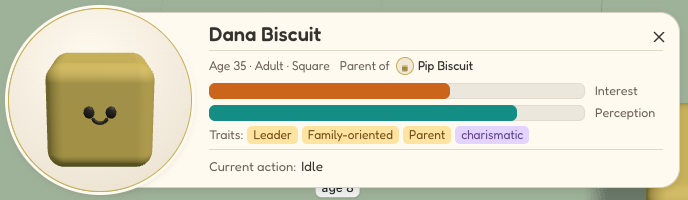
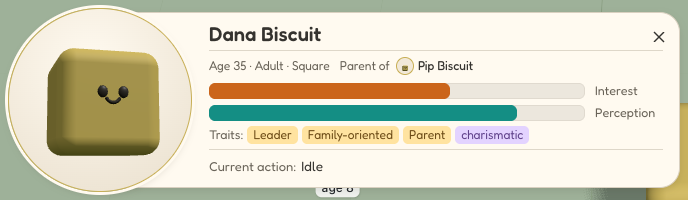
style: angle inspector portraits slightly right and upward

Changed region(s): [[0.061, 0.24, 0.2442, 0.84], [0.5799, 0.33, 0.6105, 0.36]]

diff --git a/web/src/scene/blobPortrait.ts b/web/src/scene/blobPortrait.ts
@@ -7,8 +7,9 @@ import { blobScale } from "./blobSize.ts";
 /** A narrow field of view from further back flattens the blob less than a close lens would. */
 export const PORTRAIT_FOV = 24;
 
-/** The camera sits this far above the blob's middle, looking slightly down on its face. */
-export const PORTRAIT_ELEVATION = MathUtils.degToRad(14);
+/** A slightly low, left-hand viewpoint makes the face look screen-right and upward. */
+export const PORTRAIT_ELEVATION = MathUtils.degToRad(-8);
+export const PORTRAIT_AZIMUTH = MathUtils.degToRad(-14);
 
 // Room left around the biggest blob (an elder), so its shadowless outline never touches the edge.
 const PADDING = 1.14;
@@ -36,22 +37,37 @@ export function portraitFraming(
   const halfDepth = max.z * sz;
 
   const targetY = height * AIM;
-  // The camera looks down, so depth adds to the height it sees, and the nearest part of the blob is
-  // closer to the lens than its middle.
-  const above = Math.max(height - targetY, targetY);
-  const visibleHalfHeight =
-    above * Math.cos(PORTRAIT_ELEVATION) + halfDepth * Math.sin(PORTRAIT_ELEVATION);
+  const sinYaw = Math.sin(PORTRAIT_AZIMUTH);
+  const cosYaw = Math.cos(PORTRAIT_AZIMUTH);
+  const sinPitch = Math.sin(PORTRAIT_ELEVATION);
+  const cosPitch = Math.cos(PORTRAIT_ELEVATION);
   const tan = Math.tan(MathUtils.degToRad(PORTRAIT_FOV / 2));
   const safeAspect = Number.isFinite(aspect) && aspect > 0 ? aspect : 1;
-  const distance =
-    PADDING * Math.max(visibleHalfHeight / tan, halfWidth / (tan * safeAspect)) + halfDepth;
+
+  // Fit each bounding-box corner in camera space. Combining independent worst-case width and
+  // depth would zoom out unnecessarily when the portrait is turned.
+  let distance = 0;
+  for (const x of [-halfWidth, halfWidth]) {
+    for (const y of [-targetY, height - targetY]) {
+      for (const z of [-halfDepth, halfDepth]) {
+        const across = x * cosYaw - z * sinYaw;
+        const depth = x * sinYaw + z * cosYaw;
+        const up = y * cosPitch - depth * sinPitch;
+        const toward = depth * cosPitch + y * sinPitch;
+        distance = Math.max(
+          distance,
+          toward + PADDING * Math.max(Math.abs(up) / tan, Math.abs(across) / (tan * safeAspect)),
+        );
+      }
+    }
+  }
 
   return {
     target: [0, targetY, 0],
     position: [
-      0,
+      distance * cosPitch * Math.sin(PORTRAIT_AZIMUTH),
       targetY + distance * Math.sin(PORTRAIT_ELEVATION),
-      distance * Math.cos(PORTRAIT_ELEVATION),
+      distance * cosPitch * cosYaw,
     ],
   };
 }

diff --git a/web/src/scene/blobPortrait.test.ts b/web/src/scene/blobPortrait.test.ts
@@ -48,18 +48,31 @@ describe("portraitFraming", () => {
 
   test("fills the frame rather than leaving the blob lost in it", () => {
     for (const shape of SHAPES) {
-      const ys = corners(shape, 75).map((c) => project(shape, 1, c).y);
-      assert.ok(Math.max(...ys) - Math.min(...ys) > 1.4, shape);
+      const projected = corners(shape, 75).map((c) => project(shape, 1, c));
+      const xs = projected.map((p) => p.x);
+      const ys = projected.map((p) => p.y);
+      // A turned square can be width-limited rather than height-limited.
+      const width = Math.max(...xs) - Math.min(...xs);
+      const height = Math.max(...ys) - Math.min(...ys);
+      assert.ok(Math.max(width, height) > 1.4 && Math.min(width, height) > 1.1, shape);
     }
   });
 
-  test("looks down on the blob from the front, aimed at its face height", () => {
+  test("shows the face looking subtly right and up, still mostly front-on", () => {
     for (const shape of SHAPES) {
       const { position, target } = portraitFraming(shape, 1);
-      assert.equal(position[0], 0);
+      assert.ok(position[0] < 0, "camera is to the blob's left");
       assert.ok(position[2] > 0, "in front, where the face is");
-      assert.ok(position[1] > target[1], "raised");
+      assert.ok(position[1] < target[1], "camera is slightly below the face");
+      assert.ok(Math.abs(position[0] / position[2]) < 0.3, "gentle horizontal angle");
+      assert.ok(Math.abs((position[1] - target[1]) / position[2]) < 0.2, "gentle lift");
       assert.ok(target[1] > 0.4 * ADULT_HEIGHT[shape]);
+
+      const center = new Vector3(...target);
+      const forward = center.clone().add(new Vector3(0, 0, 0.2));
+      const origin = project(shape, 1, center);
+      const face = project(shape, 1, forward);
+      assert.ok(face.x > origin.x && face.y > origin.y, "face points screen-right and up");
     }
   });
 

diff --git a/web/src/scene/BlobPortrait.tsx b/web/src/scene/BlobPortrait.tsx
@@ -21,7 +21,7 @@ function PortraitCamera({ shape }: { shape: Shape }) {
 }
 
 /**
- * A small face-forward portrait of one blob in the given shape, age and mood, for the inspector.
+ * A small portrait of one blob, looking slightly screen-right and up, for the inspector.
  * It fills its parent, which must have a size.
  *
  * It draws on demand: a frame when the blob or the canvas changes, and none otherwise. There are no
